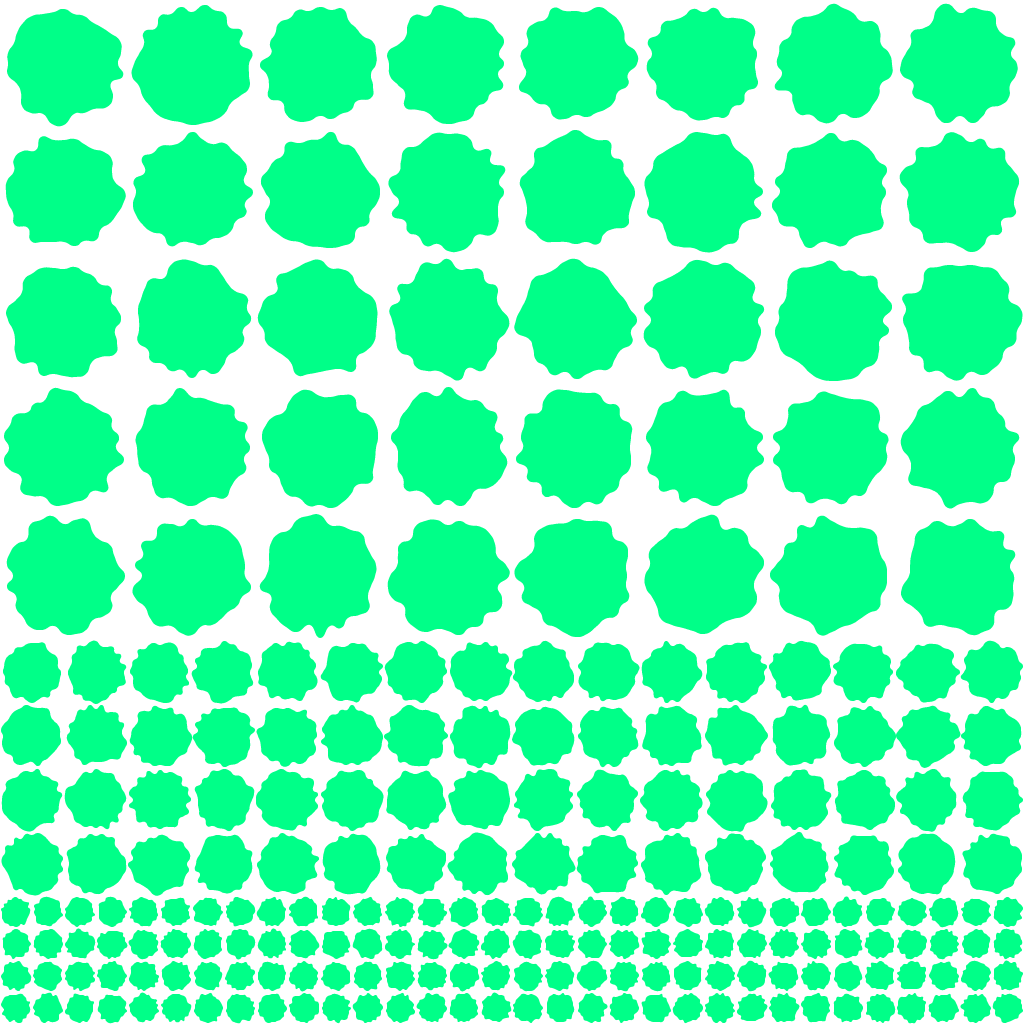
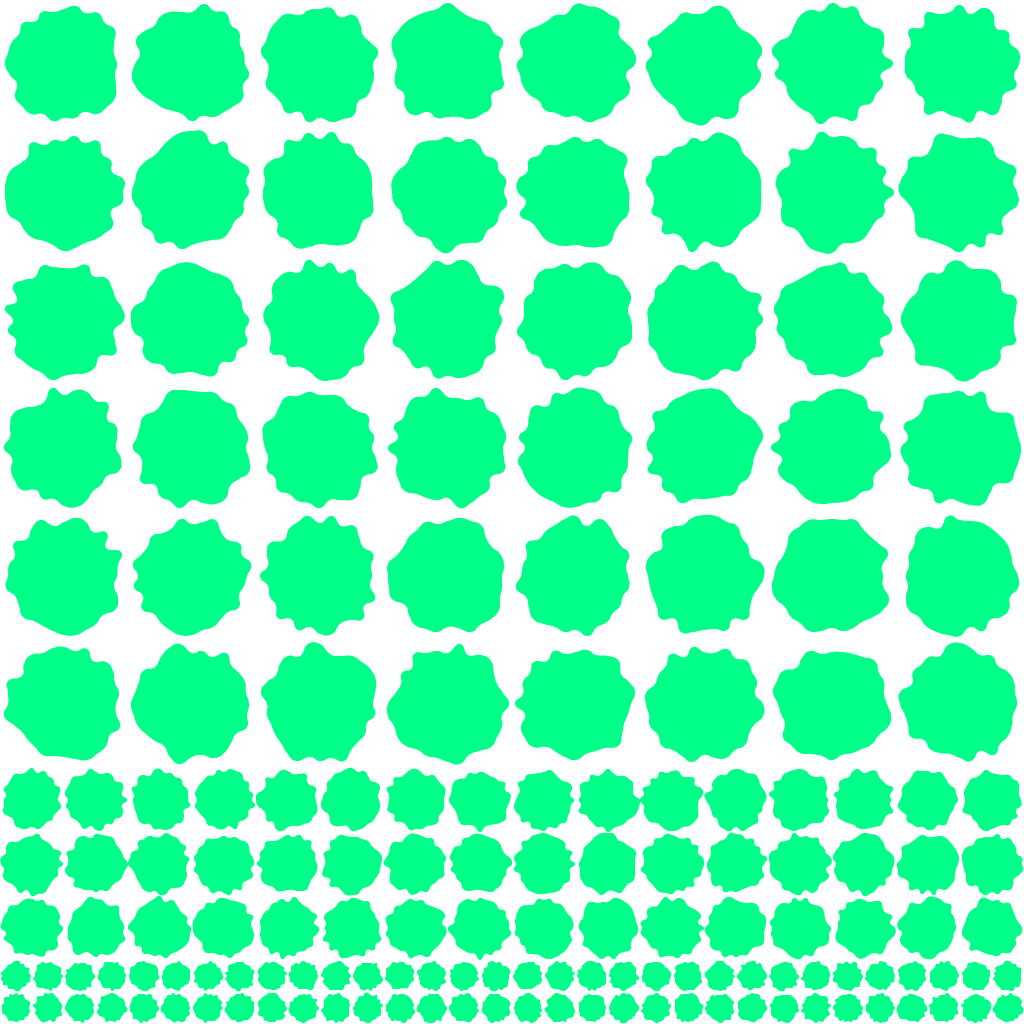
splatter spriteSheet updated

diff --git a/splatterGenerator/main.js b/splatterGenerator/main.js
@@ -5,17 +5,17 @@ function drawSplatters() {
     ctx.clearRect(0, 0, canvas.width, canvas.height);
     
     for(var x = 0; x<1024; x+=128){
-        for(var y = 0; y<640; y+=128){
+        for(var y = 0; y<768; y+=128){
             drawRandomSplatter(x+64,y+64,56);
         }
     }
     for(var x = 0; x<1024; x+=64){
-        for(var y = 640; y<896; y+=64){
+        for(var y = 768; y<960; y+=64){
             drawRandomSplatter(x+32,y+32,29);
         }
     }
     for(var x = 0; x<1024; x+=32){
-        for(var y = 896; y<1024; y+=32){
+        for(var y = 960; y<1024; y+=32){
             drawRandomSplatter(x+16,y+16,14);
         }
     }
